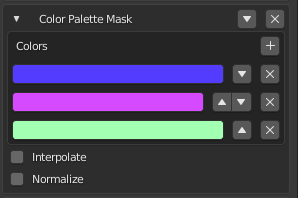
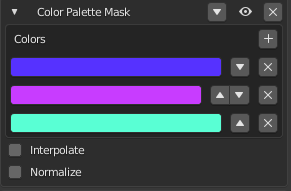
Deployed aae768b with MkDocs version: 1.1.2

diff --git a/texture_customization/index.html b/texture_customization/index.html
@@ -140,6 +140,11 @@ sides (side1-6) are corelated to their placement on the texture.</p>
 <p><img alt="" src="../img/faces.png" /></p>
 <p>New masks are added with "Add mask" dropdown menu. There are 8 different types
 of masks.</p>
+<div class="admonition note">
+<p class="admonition-title">Note</p>
+<p>All masks have an eye icon in the upper right corner that can be used to
+temporarily disable / enable the mask.</p>
+</div>
 <h2 id="color-palette-mask">Color Palette Mask</h2>
 <p><img alt="" src="../img/color_palette_mask.png" /></p>
 <p>This mask takes the grayscale image as an input and maps its brightness values

diff --git a/index.html b/index.html
@@ -201,5 +201,5 @@ easier. You can also use baked animations with physics.</li>
 
 <!--
 MkDocs version : 1.1.2
-Build Date UTC : 2020-10-15 19:08:19.327197+00:00
+Build Date UTC : 2020-10-17 17:45:41.662679+00:00
 -->
